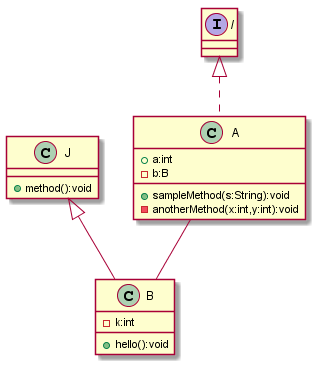
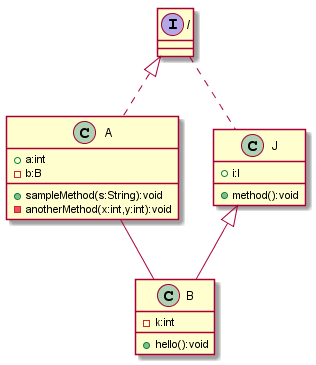
sample class diagram showing dependency with interface

diff --git a/PersonalProject/Outputs/output.java b/PersonalProject/Outputs/output.java
@@ -12,9 +12,11 @@ class B{
 interface I{
 }
 class J{
++i:I
 +method():void
 }
 class A--class B
+interface I..class J
 interface I<|..class A
 class J<|--class B
 @enduml
